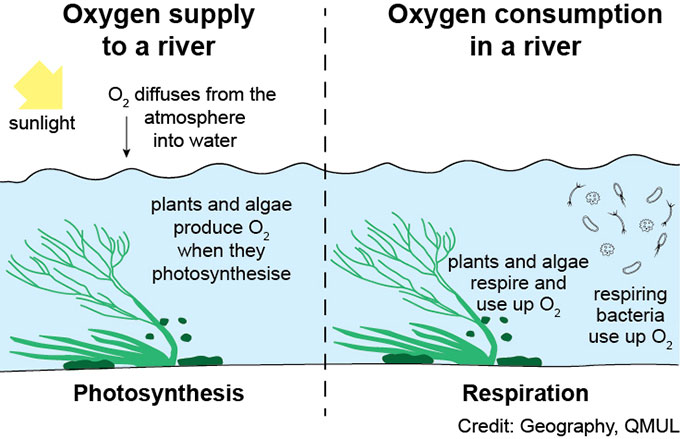
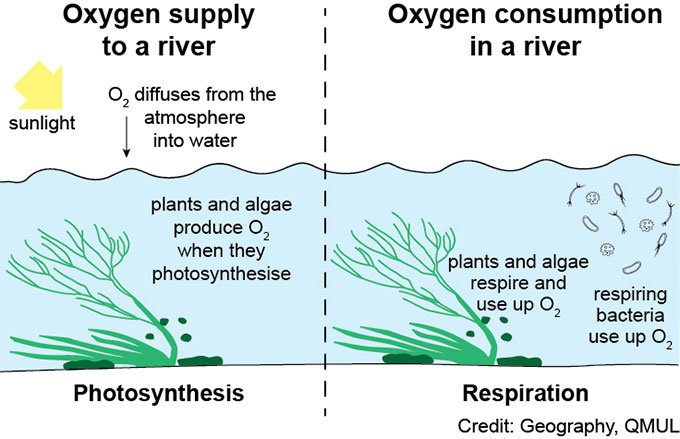
OPtimized iamge file size

diff --git a/layouts/ui_data.py b/layouts/ui_data.py
@@ -359,10 +359,10 @@ MACRO_DATA = [
 # Chemical parameter diagram mapping
 CHEMICAL_DIAGRAMS = {
     'do_percent': '/assets/images/chemical_diagrams/dissolved_oxygen_graphic.jpg',
-    'pH': '/assets/images/chemical_diagrams/pH_graphic.png',
-    'soluble_nitrogen': '/assets/images/chemical_diagrams/nitrogen_cycle.png',
-    'Phosphorus': '/assets/images/chemical_diagrams/phosphorous_cycle.png',
-    'Chloride': '/assets/images/chemical_diagrams/chloride_graphic.png',
+    'pH': '/assets/images/chemical_diagrams/pH_graphic.jpg',
+    'soluble_nitrogen': '/assets/images/chemical_diagrams/nitrogen_cycle.jpg',
+    'Phosphorus': '/assets/images/chemical_diagrams/phosphorous_cycle.jpg',
+    'Chloride': '/assets/images/chemical_diagrams/chloride_graphic.jpg',
 }
 
 # Dictionary of captions for chemical diagrams

diff --git a/app.py b/app.py
@@ -36,7 +36,7 @@ header = dbc.Container([
                        })
             ], 
             style={
-                'background-image': 'linear-gradient(rgba(0, 0, 0, 0.5), rgba(0, 0, 0, 0.5)), url("/assets/images/header_image.png")',  
+                'background-image': 'linear-gradient(rgba(0, 0, 0, 0.5), rgba(0, 0, 0, 0.5)), url("/assets/images/header_image.jpg")',  
                 'background-size': 'cover',
                 'background-position': 'center',
                 'border-radius': '5px',
